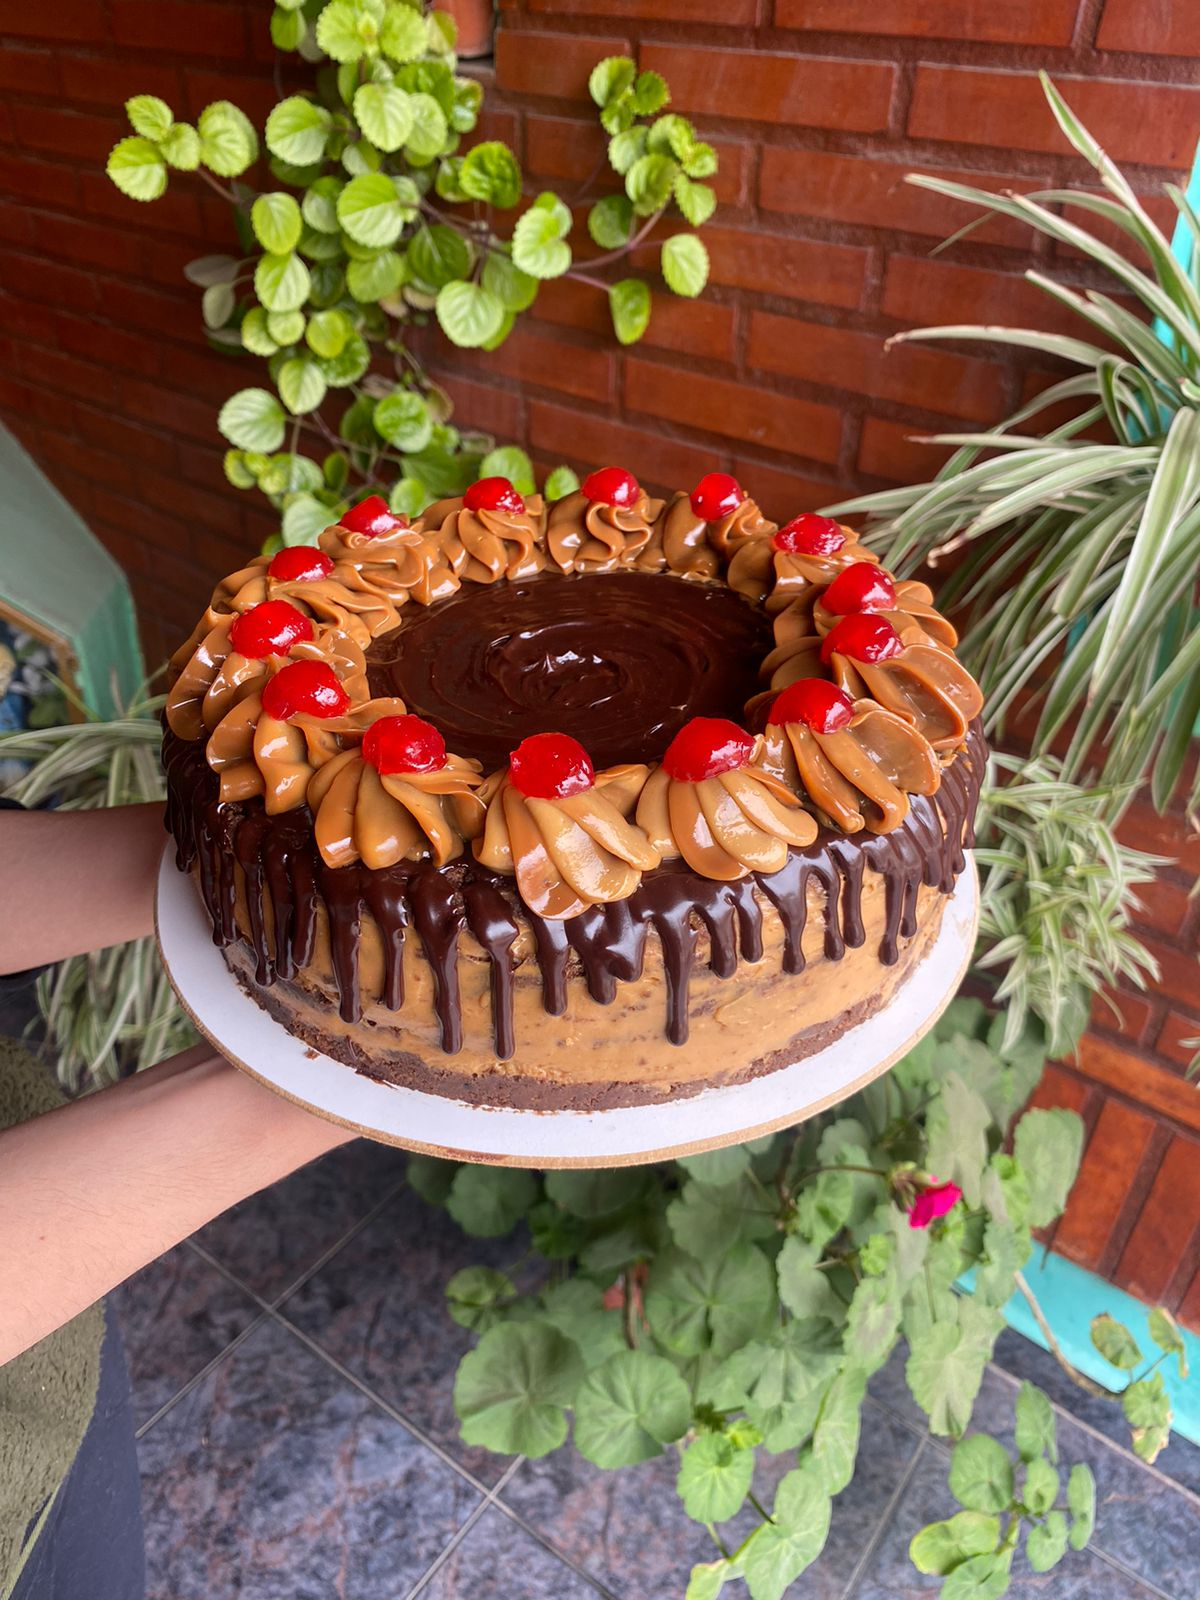
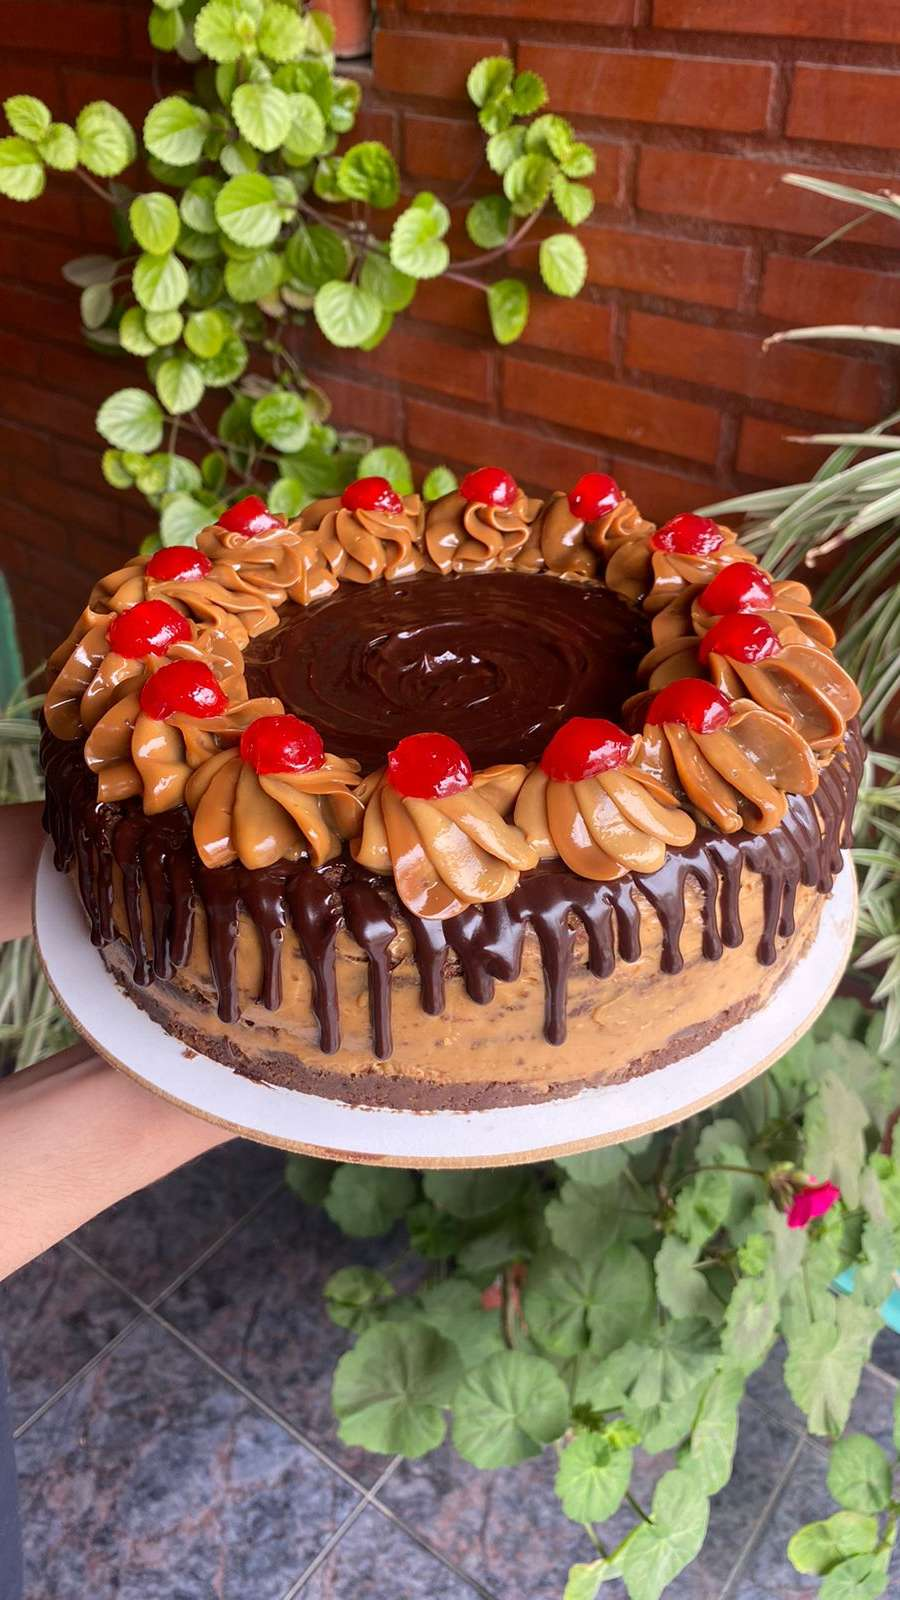
arreglo imagenes

diff --git a/HTML/chocotorta.html b/HTML/chocotorta.html
@@ -55,7 +55,7 @@
         <ul class="row">
             <img src="/imagenes/chocotorta cuadrada.jpg" class="col-md-4 col-sm-6">
             <img src="/imagenes/chocotorta redonda.jpg" class="col-md-4 col-sm-6">
-            <img src="https://i.pinimg.com/originals/d0/c9/06/d0c906f4e60ee30c376d7b71e659b75f.jpg" class="col-md-4 col-sm-6">           
+            <img src="/imagenes/shot.jpeg" class="col-md-4 col-sm-6">           
         </ul>
     </nav>
 </footer>

diff --git a/HTML/melubox.html b/HTML/melubox.html
@@ -58,7 +58,7 @@
         <ul class="row">
             <img src="/imagenes/melubox 3.jpg" class="col-md-4 col-sm-6">
             <img src="/imagenes/melubox.jpg" class="col-md-4 col-sm-6">
-            <img src="/imagenes/melubox 2.jpg" class="col-md-4 col-sm-6">
+            <img src="/imagenes/melubox 2.png" class="col-md-4 col-sm-6">
             
         </ul>
     </nav>
